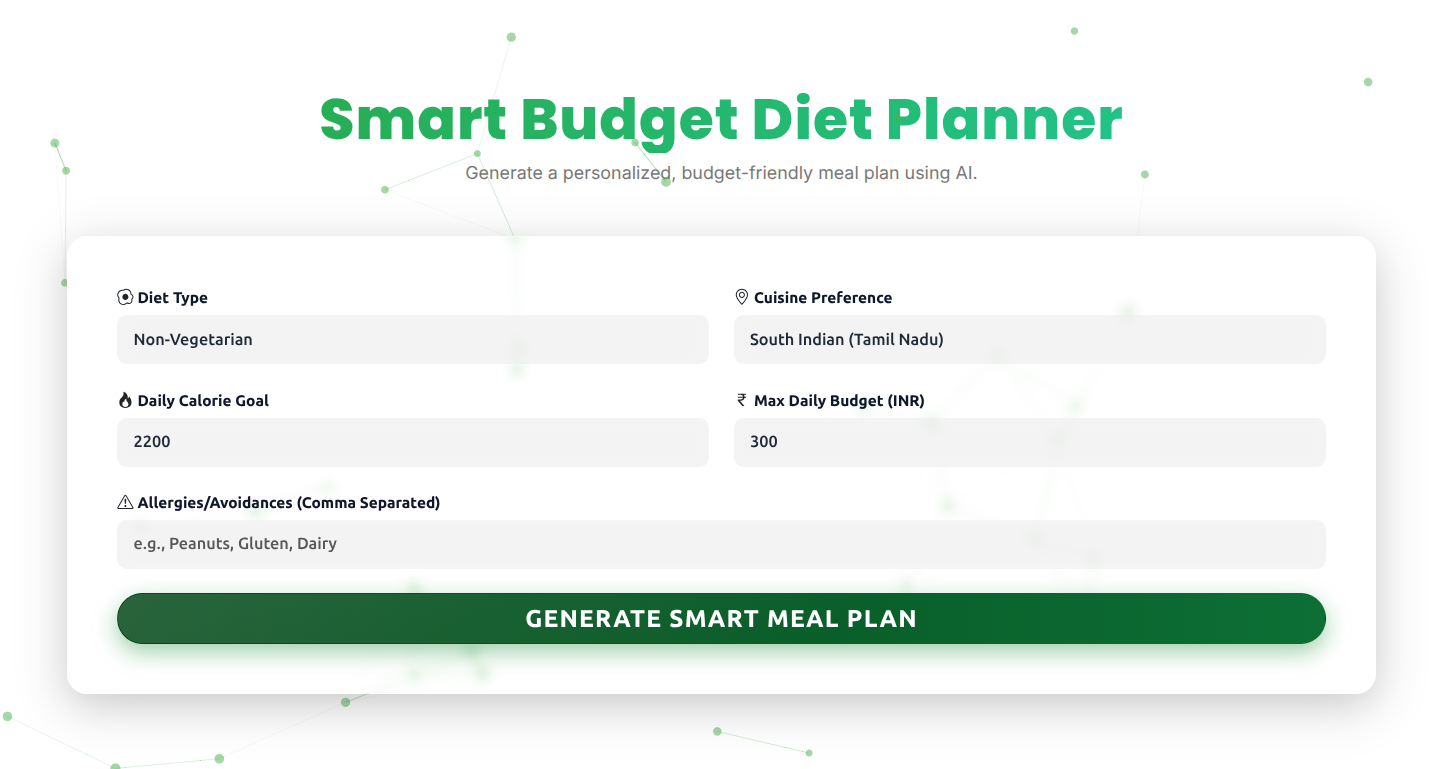
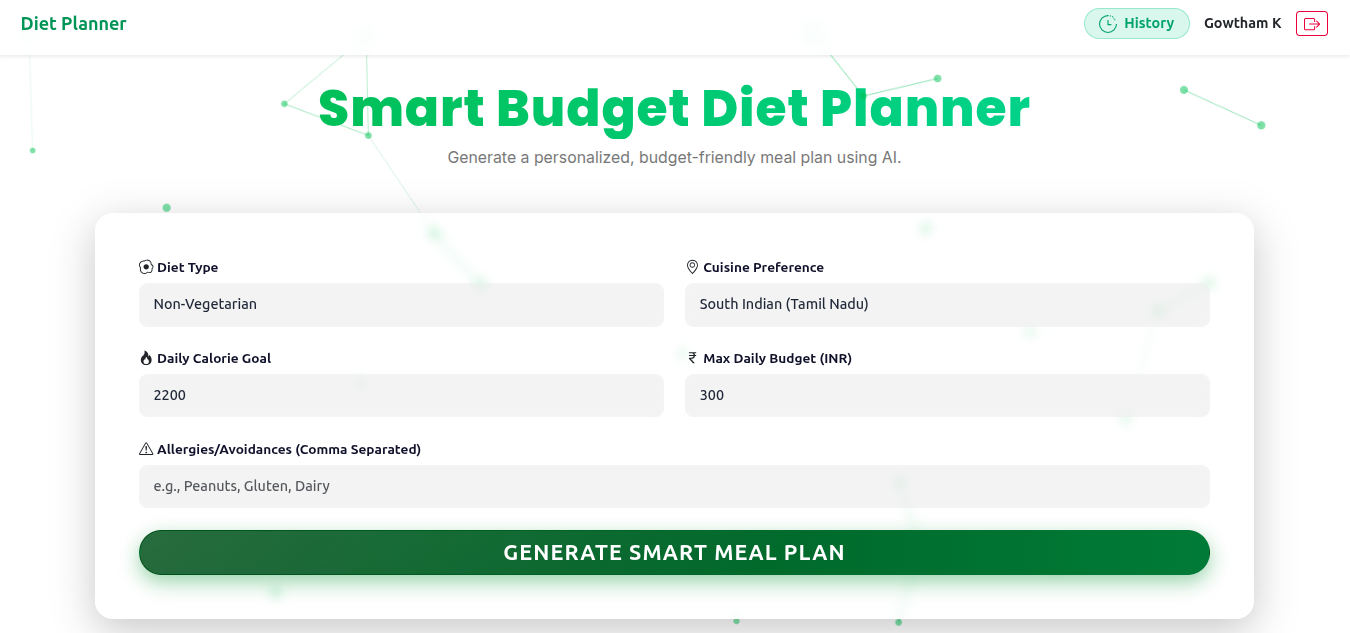
Update demo link for the AI Budget Diet Planner project

diff --git a/protfolio/src/components/Projects.jsx b/protfolio/src/components/Projects.jsx
@@ -26,7 +26,7 @@ function Projects() {
           </ul>
         </>
       ),
-      demoLink: "https://ai-diet-planner-nmjj.onrender.com/",
+      demoLink: "https://ai-budget-diet-planner.onrender.com/",
       codeLink: "https://github.com/Gowthamkvdl/Smart-Budget-Diet-Planner",
       img: dietPlannerImg
     },
